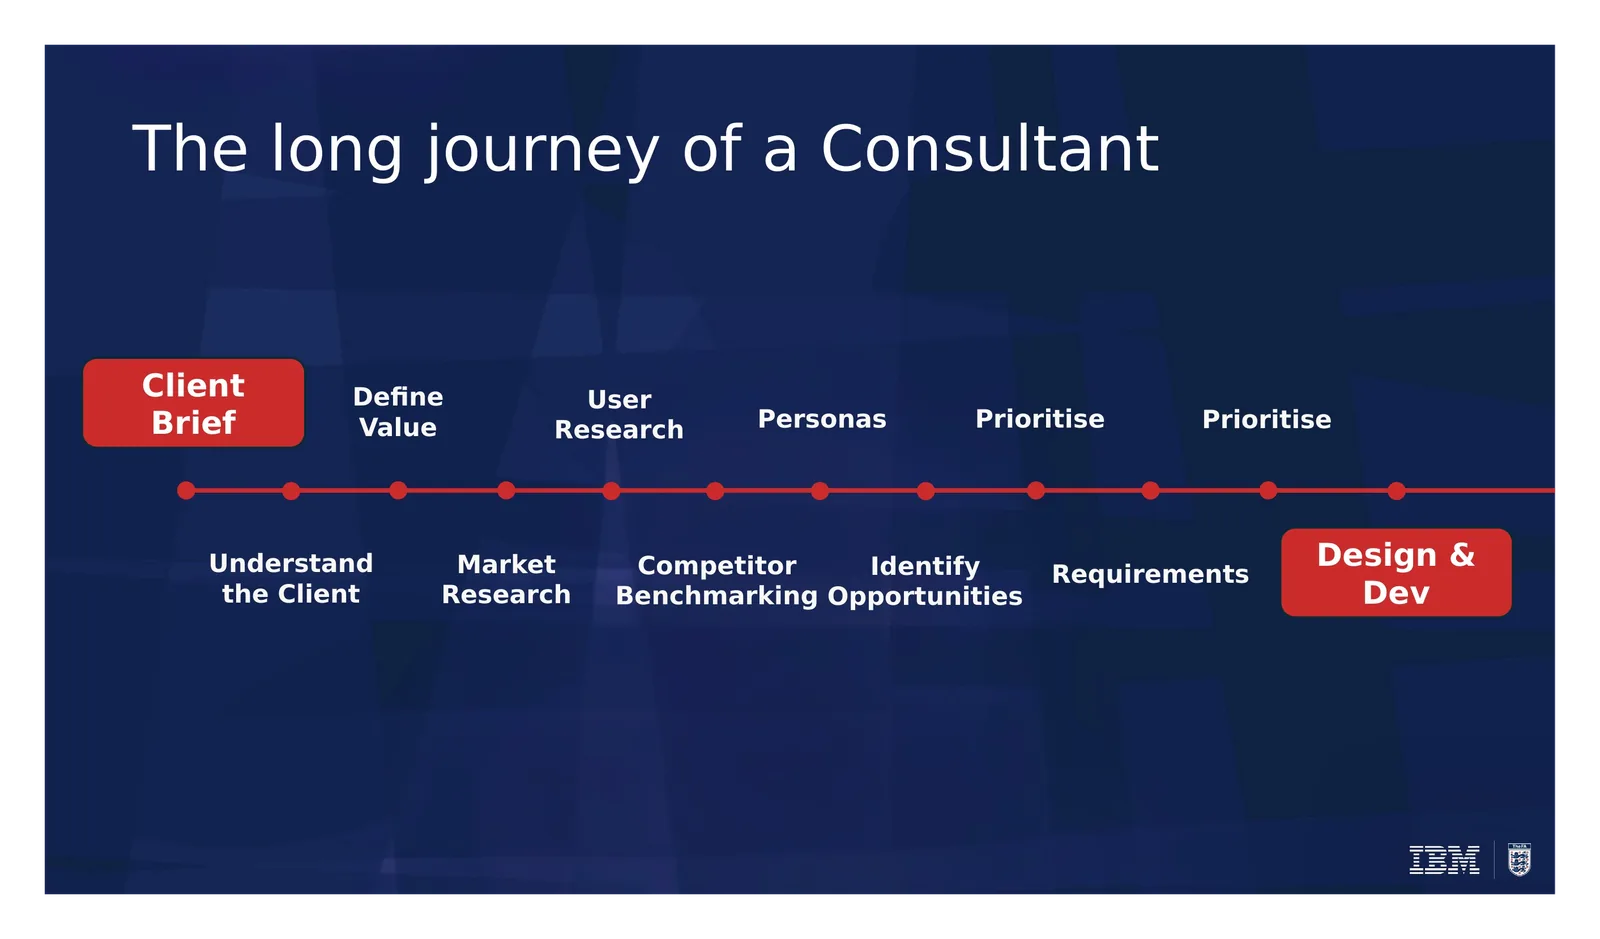
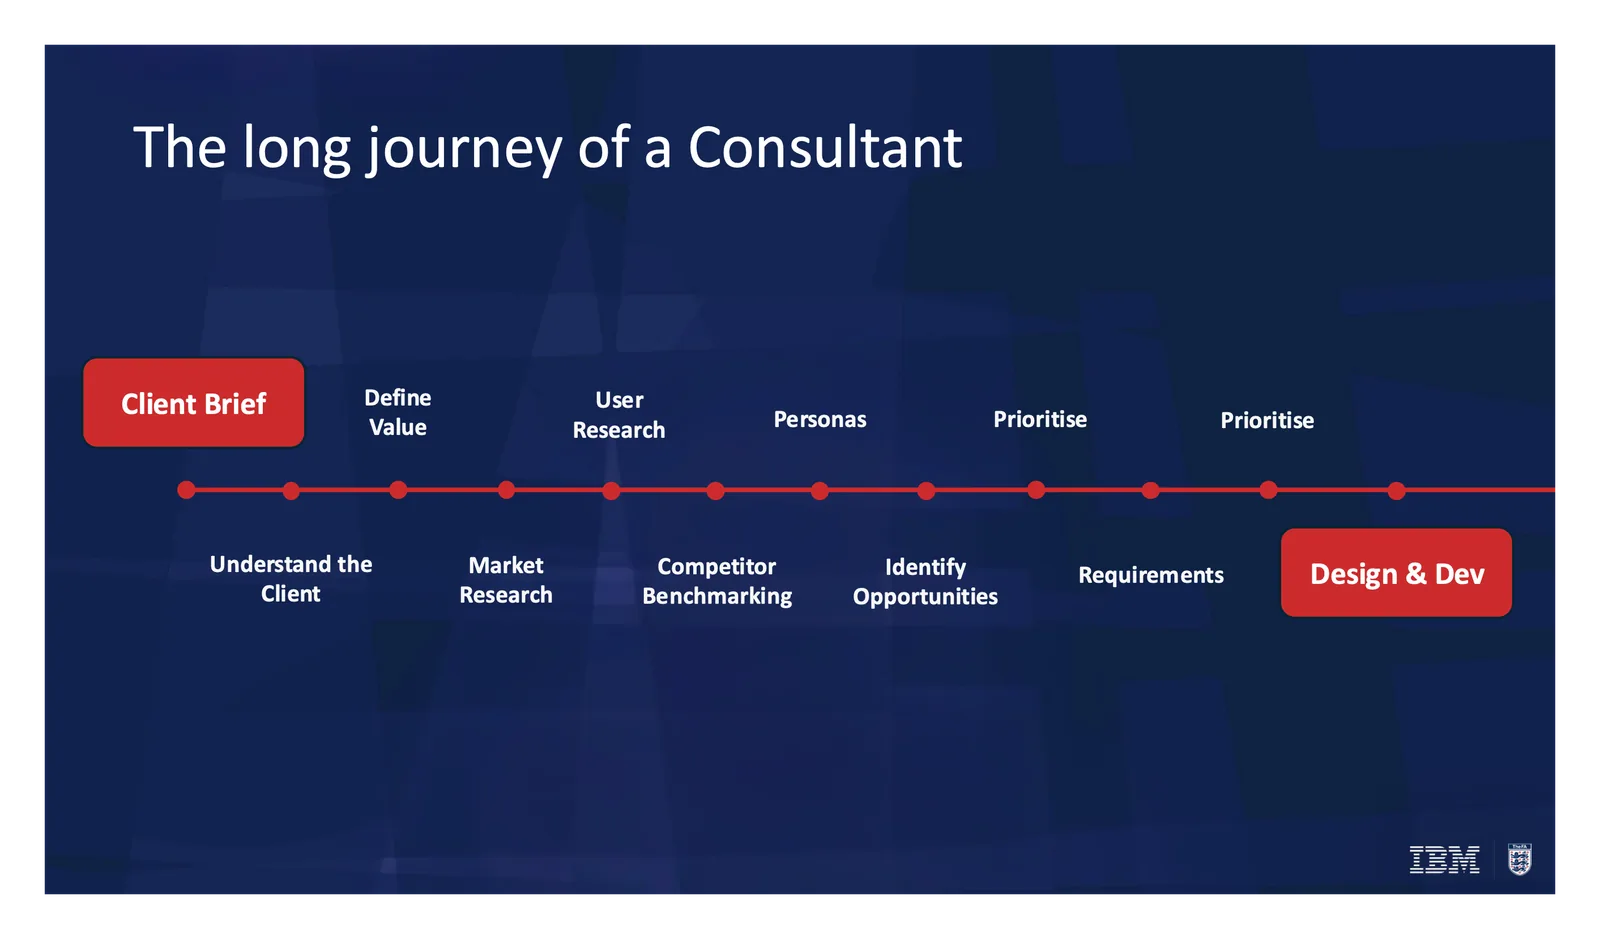
Replace the lifecycle slides with renders from the deck's PDF
The three slides now come from the PDF export, with the deck's real fonts
and without the PDLC slide's caption, replacing the earlier screenshots
and the painted-out version.

diff --git a/lib/private/case-studies.ts b/lib/private/case-studies.ts
@@ -102,9 +102,8 @@ const privateContent: Record<string, PrivateContent> = {
       // The lifecycle the toolkit was designed from, closing Decisions, whose
       // last paragraph makes the features the toolkit's output. In order: the
       // consulting journey (the gap Reflection names), the lifecycle split into
-      // discovery and delivery, and where AI could join each stage. The second
-      // slide's "6 weeks gone, 6 weeks left" caption was painted out of the
-      // source before processing.
+      // discovery and delivery, and where AI could join each stage. Rendered
+      // from the deck's PDF export rather than screenshots, for the real fonts.
       { id: "lifecycle", title: "The lifecycle behind the toolkit", afterParagraph: 6, items: [
         privateImg("england-football-app", "lifecycle-01", "Slide, The long journey of a consultant: a timeline from client brief through understanding the client, research, personas and requirements to design and development."),
         privateImg("england-football-app", "lifecycle-02", "Slide, Product development lifecycle overview: research, requirements and design as discovery, then development, testing and deploy as delivery."),
